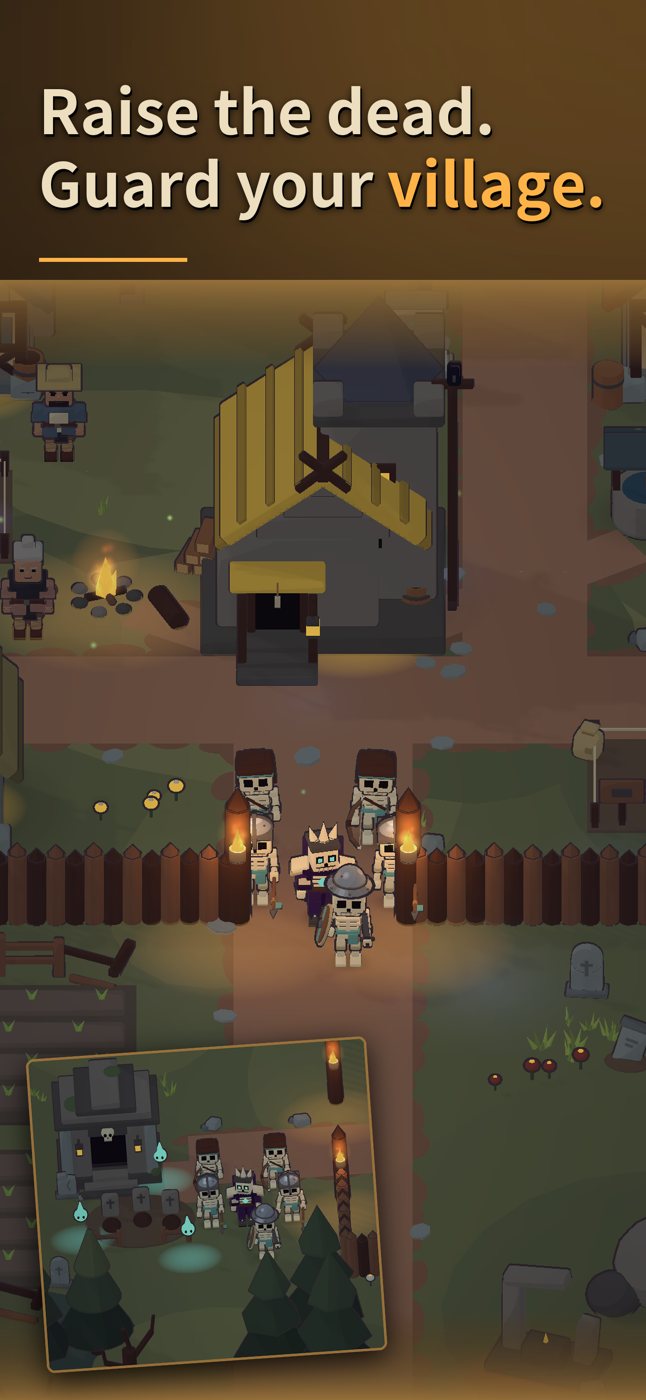
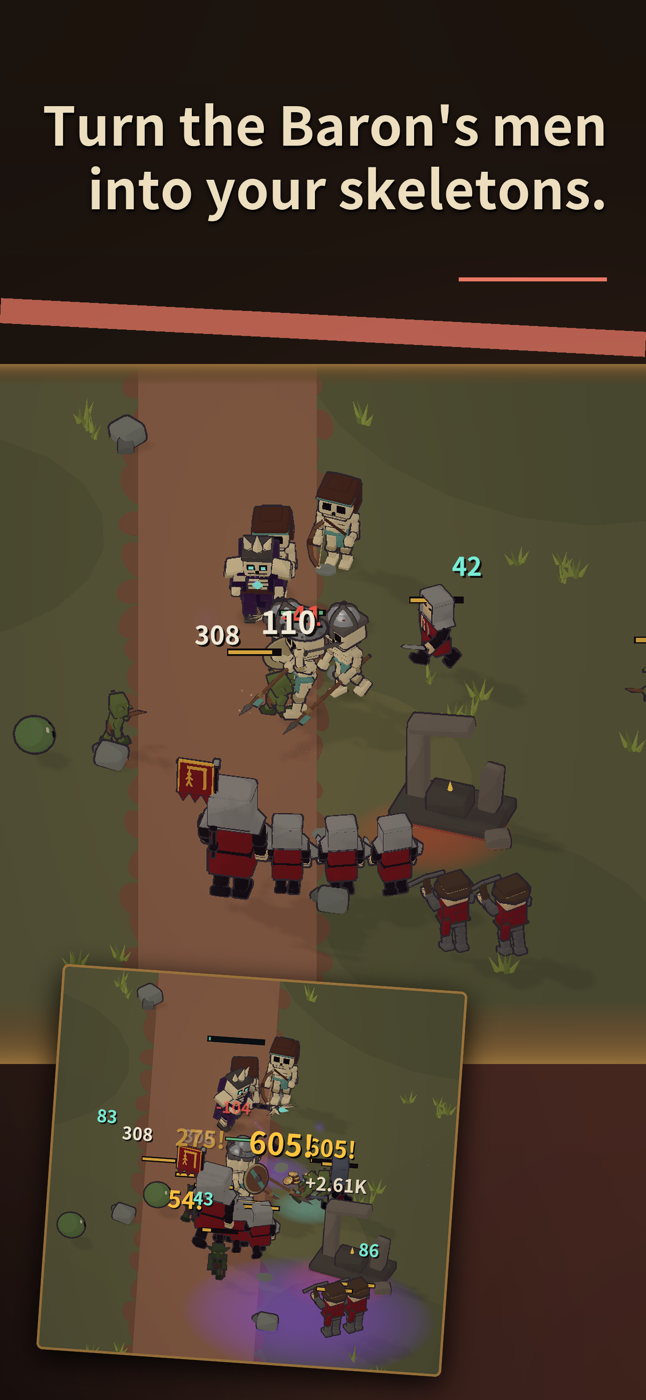
Swap village/guard shot for the Baron's army shot

diff --git a/bone-empire/index.html b/bone-empire/index.html
@@ -30,7 +30,7 @@
 </ul>
 
 <div class="shots">
-  <img src="shot1.png" alt="Grow your village">
+  <img src="shot1.png" alt="Turn the Baron's men into your skeletons">
   <img src="shot2.png" alt="Slay and raise">
   <img src="shot3.png" alt="Break the lieutenants">
 </div>
